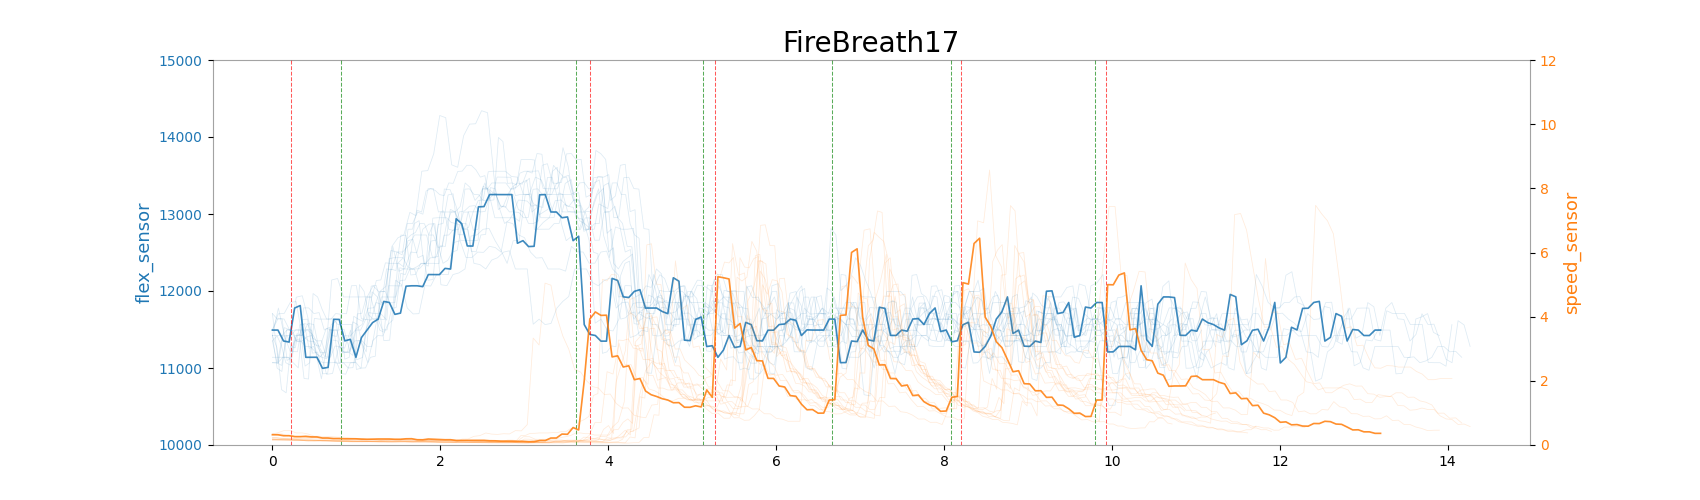
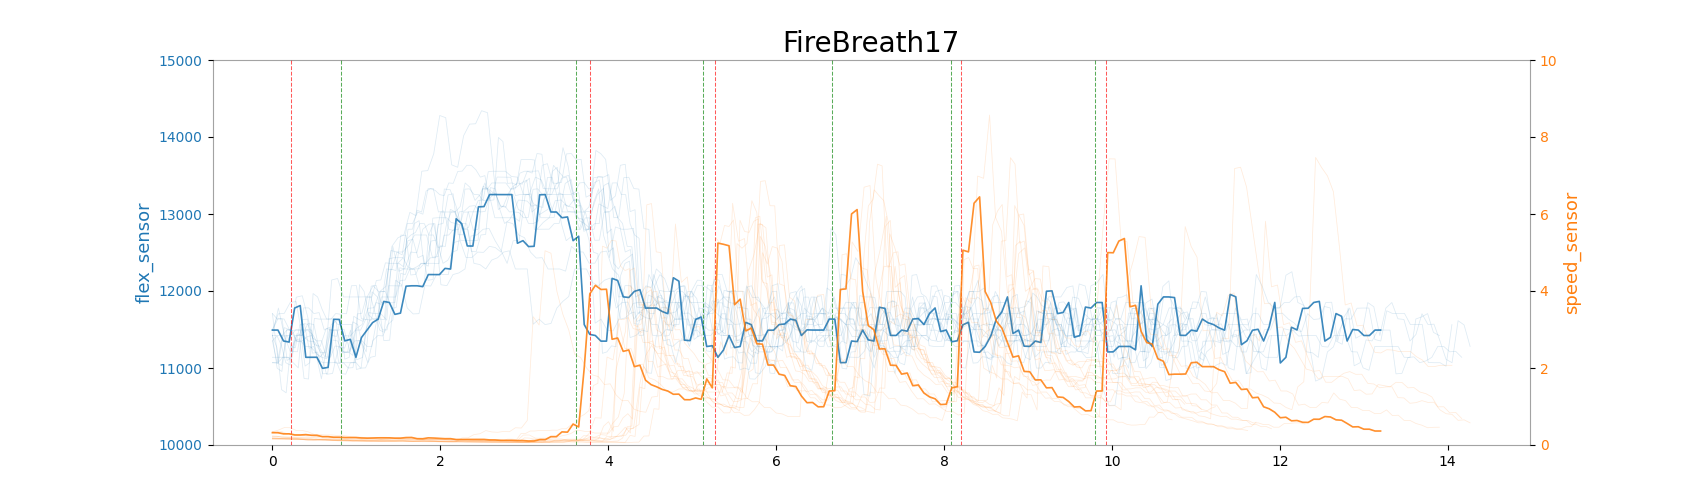
new

diff --git a/Breathing_detection.py b/Breathing_detection.py
@@ -20,7 +20,7 @@ class Proper(object):
 
 
 ##################################
-Folder_name = 'FullBreath_bare/'
+Folder_name = 'BoxBreath_jacket/'
 ##################################
 
 #Read Files
@@ -55,6 +55,7 @@ def Init_all_Properties(object, raw):
             count = count + 1
         else:
             count = count + 1
+    print(len(object.basic['Flex']))
     print(object.parameter['Action'])
     print(object.parameter['Actiontime'])
     print(object.parameter['Record'])
@@ -84,11 +85,6 @@ def smooth(x, y):
     return x_smooth, y_smooth
 
 
-
-
-
-
-
 #################### Main ######################
 
 #Declare Objects
@@ -107,23 +103,29 @@ for i in range(0,len(csv_files)):
 #Accuracy Analysis
 false_total = 0
 for i in range(0,len(csv_files)):
-    false_total = false_total + False_Calcuate(globals()['File'+str(i)], 'FullBreath')
+    false_total = false_total + False_Calcuate(globals()['File'+str(i)], 'BoxBreath')
 
 print('\nfalse_total: ', false_total)
-accuracy_num = ((2 * len(csv_files))-false_total) / (2 * len(csv_files))
+accuracy_num = ((4 * len(csv_files))-false_total) / (4 * len(csv_files))
 print('accuracy_num: ',Folder_name, accuracy_num)
 print('\n')
 
 
+# for i in range(len(globals()['File'+str(0)].basic['Flex'])):
+#     if (globals()['File'+str(0)].basic['Flex']).isEmpty():
+#         print(i)
+
 
 #Plot All Files' Figure
 for i in range(0,len(csv_files)):
-    ax1_x = np.arange(0,len(globals()['File'+str(i)].basic['Flex'])/60, 1/60)
+    ax1_x = np.arange(0,len(globals()['File'+str(i)].basic['Flex']))
+    ax1_x = ax1_x/60
     ax1_y = globals()['File'+str(i)].basic['Flex']
     s_ax1, s_ay1 = smooth(ax1_x, ax1_y)
     ax1.plot(s_ax1, s_ay1, color='tab:blue', alpha=0.15, linewidth=0.55)
 
-    ax2_x = np.arange(0, len(globals()['File'+str(i)].basic['Speed'])/60, 1/60)
+    ax2_x = np.arange(0, len(globals()['File'+str(i)].basic['Speed']))
+    ax2_x = ax2_x/60
     ax2_y = globals()['File'+str(i)].basic['Speed']
     s_ax2, s_ay2 = smooth(ax2_x, ax2_y)
     ax2.plot(s_ax2, s_ay2, color='tab:orange', alpha=0.15,linewidth=0.55)
@@ -132,16 +134,18 @@ for i in range(0,len(csv_files)):
 
 ##Plot Single Figure
 #################### 10 11
-num = 9
+num = 10
 selected_object = globals()['File'+str(num)]
 ####################
 
-ax1_x = np.arange(0,len(selected_object.basic['Flex'])/60, 1/60)
+ax1_x = np.arange(0,len(selected_object.basic['Flex']))
+ax1_x = ax1_x/60
 ax1_y = selected_object.basic['Flex']
 s_ax1, s_ay1 = smooth(ax1_x, ax1_y)
 ax1.plot(s_ax1, s_ay1, color='tab:blue', alpha=0.85, linewidth=1.2)
 
-ax2_x = np.arange(0, len(selected_object.basic['Speed'])/60, 1/60)
+ax2_x = np.arange(0, len(selected_object.basic['Speed']))
+ax2_x = ax2_x/60
 ax2_y = selected_object.basic['Speed']
 s_ax2, s_ay2 = smooth(ax2_x, ax2_y)
 ax2.plot(s_ax2, s_ay2, color='tab:orange', alpha=0.85,linewidth=1.2)
@@ -155,7 +159,7 @@ ax1.set_ylim(10000, 15000)
 #Plot Speed
 ax2.set_ylabel('speed_sensor', color='tab:orange', fontsize = 13)
 ax2.tick_params(axis='y', labelcolor='tab:orange')
-ax2.set_ylim(0, 30)
+ax2.set_ylim(0, 20)
 
 
 #Action / Record Vertical Line
@@ -175,12 +179,12 @@ Figure_name = (csv_files[num].split('/')[-1]).split('.')[0]
 
 plt.title(Figure_name,  fontsize = 20)
 plt.savefig(Folder_name+Figure_name+'.png')
-# plt.show()
+plt.show()
 
 
-#accuracy_num:  FireBreath_bare/ 0.8571428571428571
-#accuracy_num:  FireBreath_jacket/ 0.7142857142857143
-#accuracy_num:  BoxBreath_bare/ 0.9791666666666666
-#accuracy_num:  BoxBreath_jacket/ 1.0
-#accuracy_num:  FullBreath_bare/ 1.0
-#accuracy_num:  FullBreath_jacket/ 0.9583333333333334
+#FireBreath_bare/ 0.8571428571428571
+#FireBreath_jacket/ 0.7142857142857143
+#BoxBreath_bare/ 0.9791666666666666
+#BoxBreath_jacket/ 1.0
+#FullBreath_bare/ 1.0
+#FullBreath_jacket/ 0.9583333333333334

diff --git a/File_Correct.py b/File_Correct.py
@@ -1,0 +1,50 @@
+import matplotlib.ticker as mtick
+import numpy as np
+import matplotlib.pyplot as plt
+import pandas as pd
+import glob
+import os
+
+
+##################################
+Folder_name = 'FullBreath_bare/'
+##################################
+
+
+class Proper(object):
+    def __init__(self):
+        self.basic = {'Time' : [], 'Speed' : [], 'Flex' : [], }
+        self.parameter = { 'Record' : [], 'Recordtime' : [], 'Action' : [], 'Actiontime' : []}
+
+
+#Read Files
+def Read_Files():
+    path = os.getcwd()
+    csv_files = glob.glob(os.path.join(Folder_name, "*.csv"))
+    print(' \nGet', len(csv_files)  ,'files')
+    return csv_files
+
+
+#Read csv
+def Read_csv(path):
+    raw = pd.read_csv(path)
+    return raw
+
+
+
+#Declare Objects
+csv_files = Read_Files()
+for i in range(0,len(csv_files)):
+    raw = Read_csv(csv_files[i])
+    print(csv_files[i])
+    bool = raw['flex_sensor'].isnull()
+    for i in range(len(raw['flex_sensor'])):
+        if bool[i] == True:
+            print(i)
+
+
+
+
+# for i in range(0,len(csv_files)):
+#     globals()['File'+str(i)] = Proper()
+#     print('File'+str(i), ' = ', csv_files[i])
